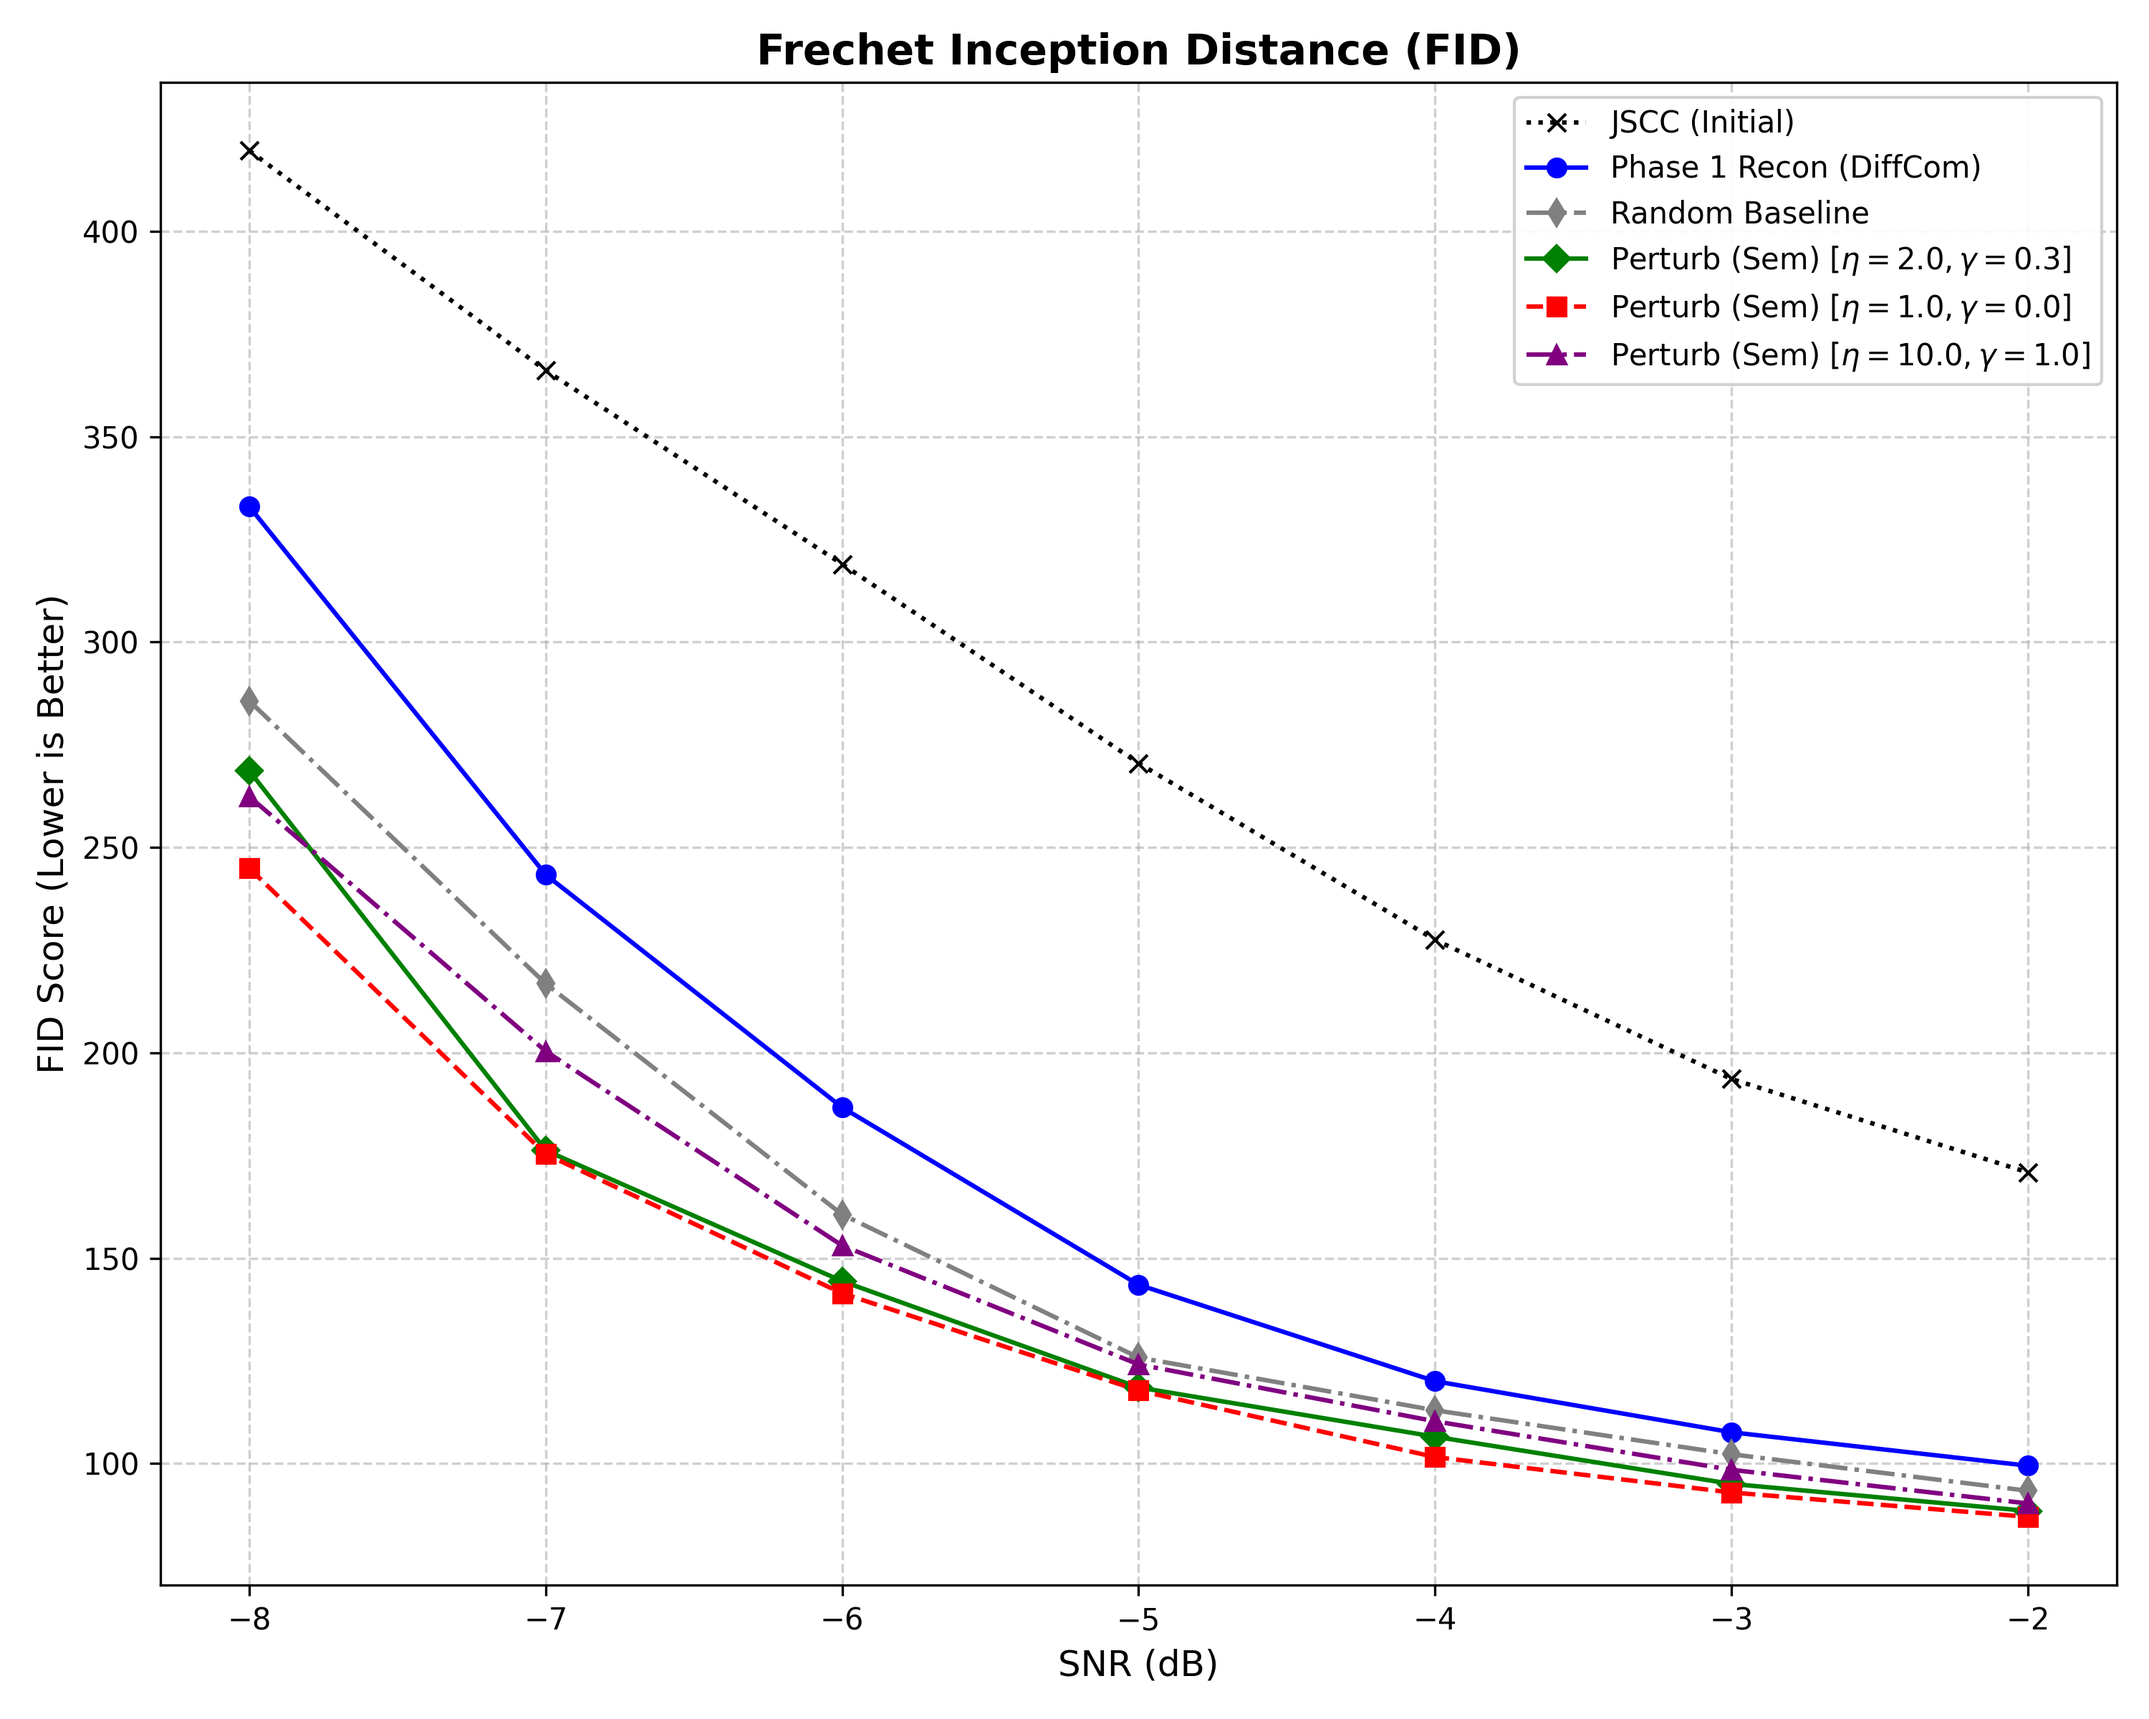
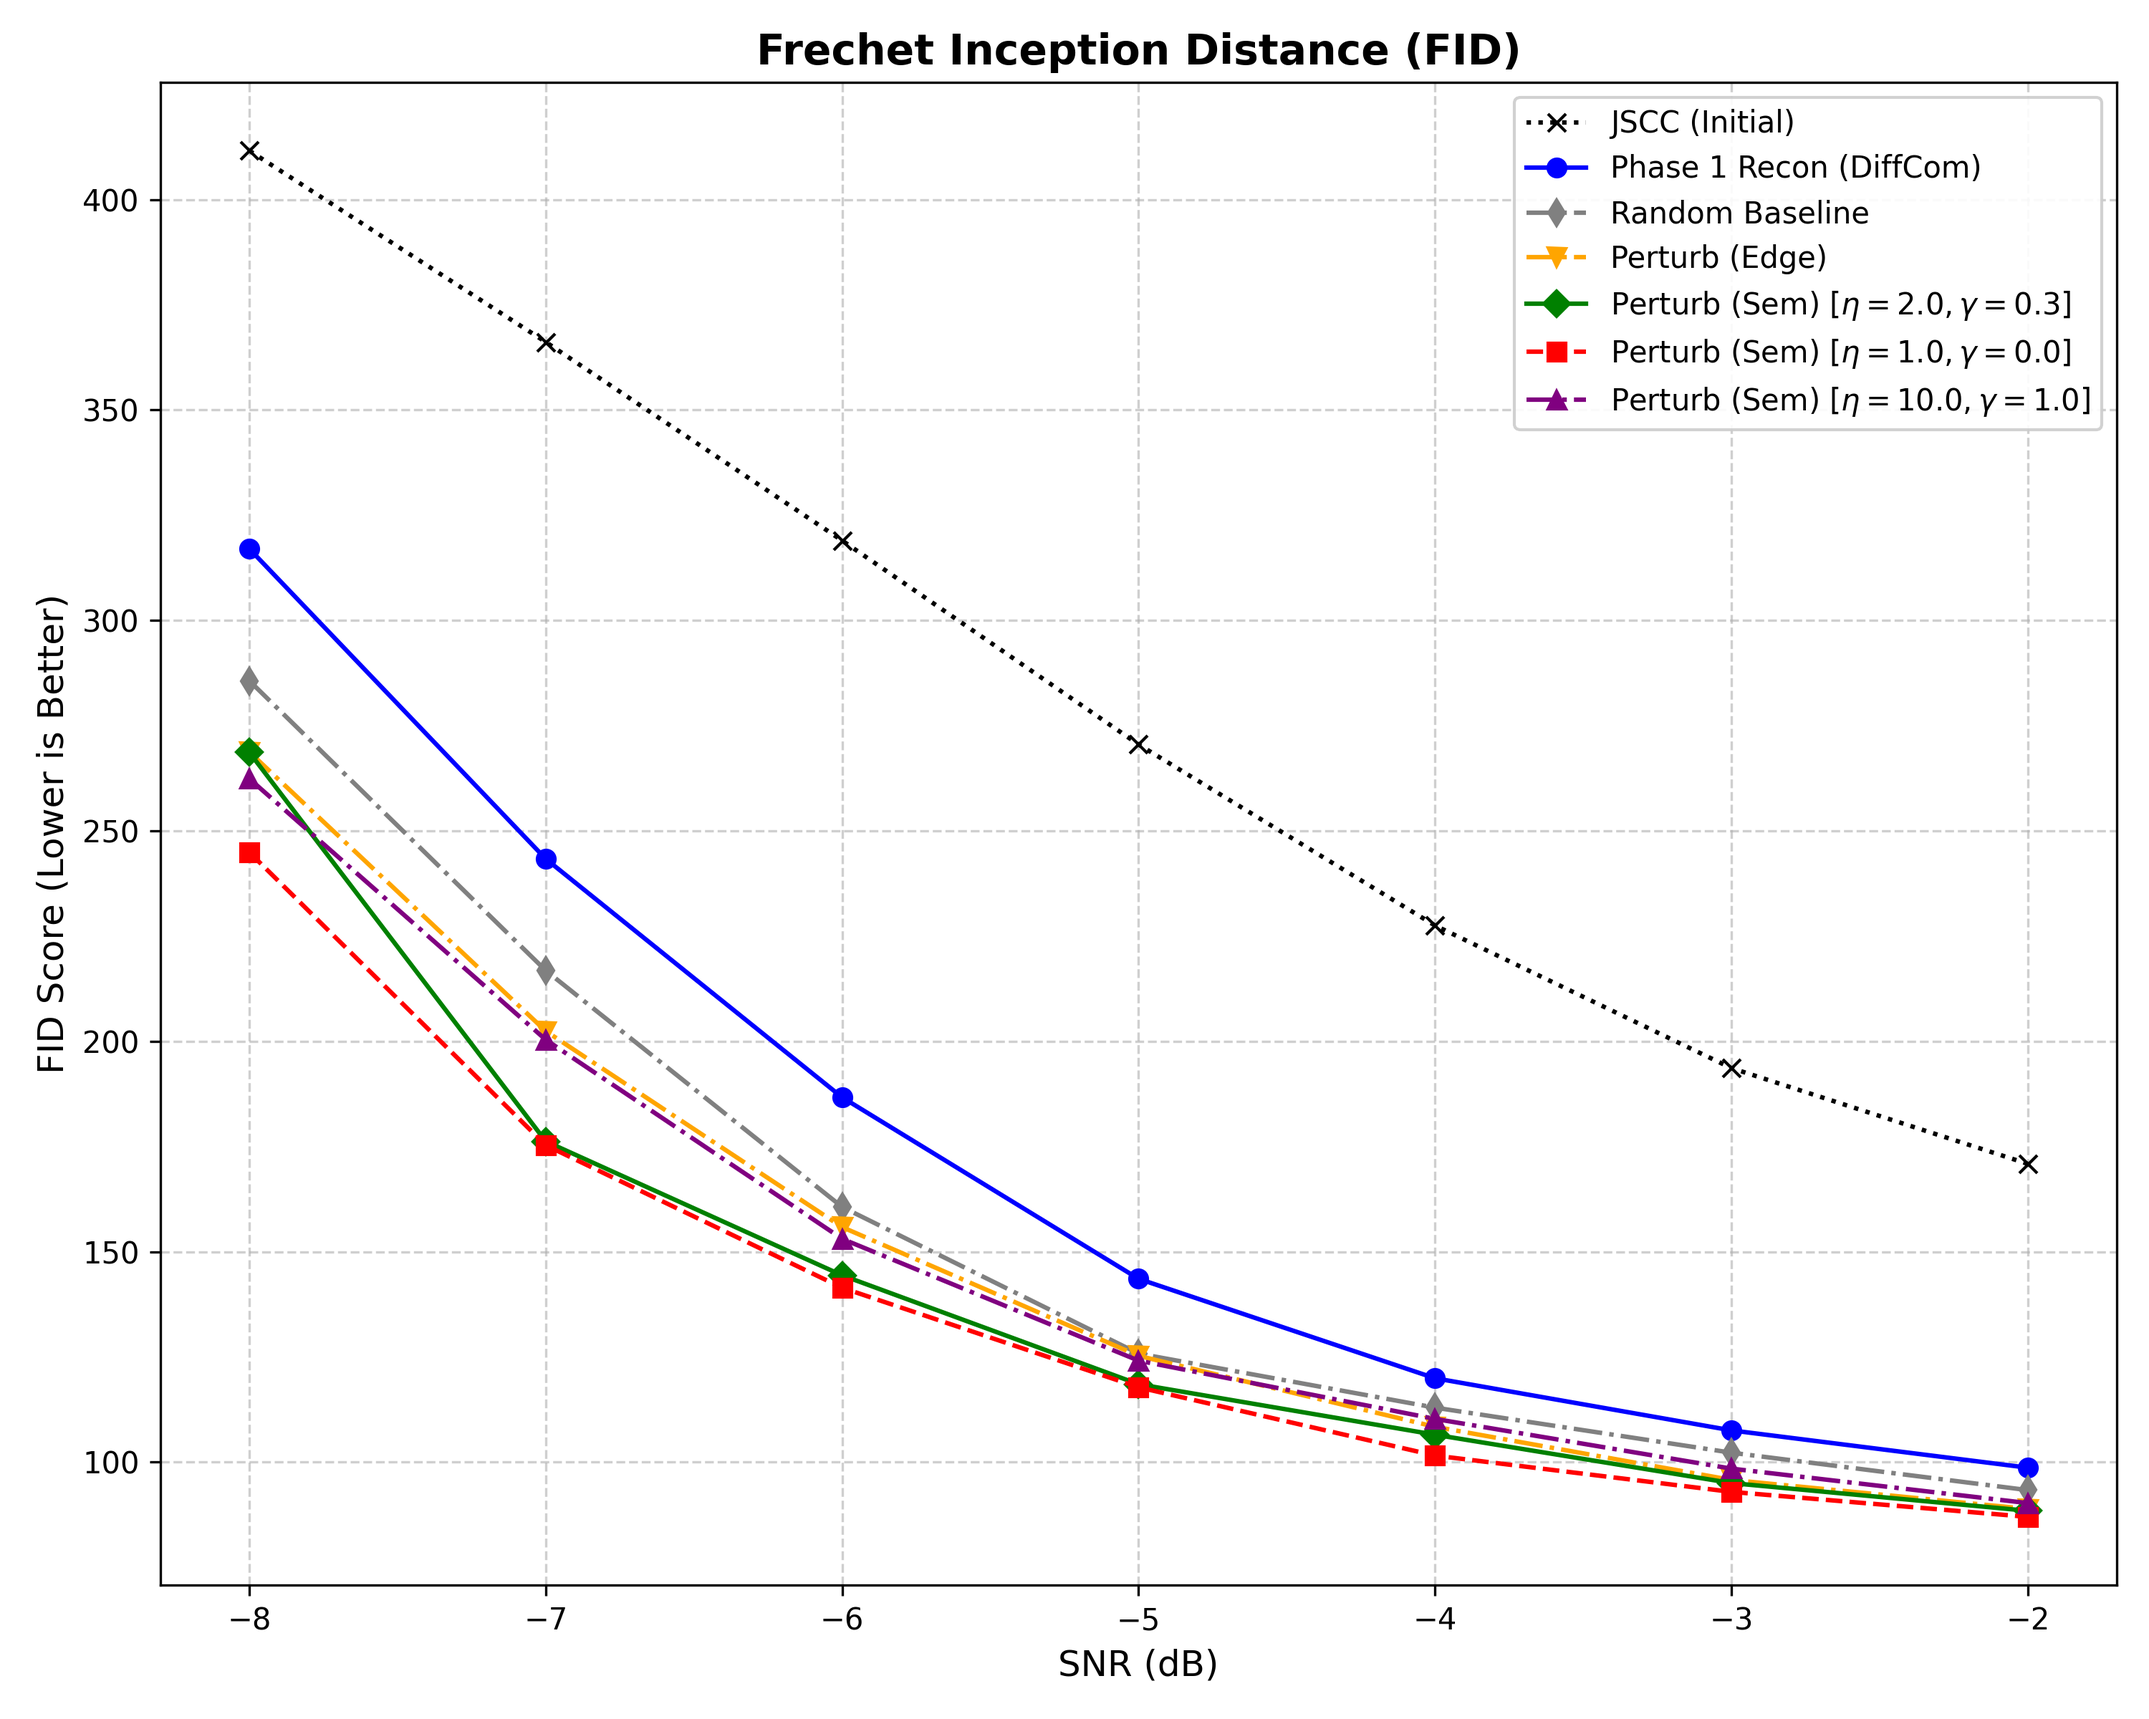
final save

diff --git a/calc_id_loss.py b/calc_id_loss.py
@@ -29,25 +29,34 @@ def preprocess_for_facenet(img_tensor):
     
     return img_normalized
 
-def calculate_id_loss_for_snr(target_path, id_model, device):
+def calculate_id_loss_for_snr(target_path, id_model, device, mode):
     """
     指定されたパス内の画像からID Loss (1 - CosineSimilarity) を計算し保存する。
-    UncとSemの手法間の差分トップ3もログに出力する。
+    UncとSemの手法間の差分トップ3もログに出力する（ファイルが存在する場合のみ）。
     """
     if not os.path.exists(target_path):
         print(f"[Skip] Path not found: {target_path}")
         return
 
-    # 手法定義
-    methods = [
-        '1_JSCC_Init',
-        '2_Phase1_Recon',
-        '3_P2_perturbation_raw_Unc',
-        '3_P2_perturbation_raw_Sem',
-        # '3_P2_temporal_raw_Unc',
-        # '3_P2_temporal_raw_Sem',
-        '3_P2_Random'
-    ]
+    # モードに応じた手法定義
+    if mode.lower() == 'edge':
+        # Edgeモード: ファイル名は ...raw_Edge.png を想定
+        mode_cap = mode.capitalize()
+        methods = [
+            '1_JSCC_Init',
+            '2_Phase1_Recon',
+            f'3_P2_perturbation_raw_{mode_cap}', # 例: 3_P2_perturbation_raw_Edge
+            '3_P2_Random'
+        ]
+    else:
+        # Semantic (Default) モード: UncとSemが存在する想定
+        methods = [
+            '1_JSCC_Init',
+            '2_Phase1_Recon',
+            '3_P2_perturbation_raw_Unc',
+            '3_P2_perturbation_raw_Sem',
+            '3_P2_Random'
+        ]
 
     # 結果コンテナ
     id_scores = {m: [] for m in methods}     # Cosine Similarity
@@ -55,8 +64,7 @@ def calculate_id_loss_for_snr(target_path, id_model, device):
 
     # 差分トラッキング用 [ (batch_id, diff, loss_unc, loss_sem), ... ]
     diff_records_perturbation = []
-    diff_records_temporal = []
-
+    
     visuals_dir = os.path.join(target_path, 'visuals')
     if not os.path.exists(visuals_dir):
         print(f"[Skip] No visuals directory in {target_path}")
@@ -73,7 +81,7 @@ def calculate_id_loss_for_snr(target_path, id_model, device):
 
     to_tensor = transforms.ToTensor()
 
-    print(f"Processing {len(batch_dirs)} samples in {os.path.basename(target_path)}...")
+    print(f"Processing {len(batch_dirs)} samples in {os.path.basename(target_path)} (Mode: {mode})")
 
     for b_dir in tqdm(batch_dirs, leave=False):
         path = os.path.join(visuals_dir, b_dir)
@@ -121,27 +129,21 @@ def calculate_id_loss_for_snr(target_path, id_model, device):
                     current_batch_losses[m] = None
 
             # --- Calculate Differences for Top 3 Tracking ---
-            
-            # 1. Perturbation: Unc vs Sem
+            # UncとSemの両方が存在する場合のみ計算 (Edgeモード等はスキップされる)
             unc_key_p = '3_P2_perturbation_raw_Unc'
             sem_key_p = '3_P2_perturbation_raw_Sem'
-            if current_batch_losses.get(unc_key_p) is not None and current_batch_losses.get(sem_key_p) is not None:
+            
+            if (unc_key_p in current_batch_losses and 
+                sem_key_p in current_batch_losses and
+                current_batch_losses[unc_key_p] is not None and 
+                current_batch_losses[sem_key_p] is not None):
+                
                 u_val = current_batch_losses[unc_key_p]
                 s_val = current_batch_losses[sem_key_p]
                 diff = abs(u_val - s_val)
                 diff_records_perturbation.append( (b_dir, diff, u_val, s_val) )
 
-            # 2. Temporal: Unc vs Sem (もしmethodsに含まれていれば)
-            unc_key_t = '3_P2_temporal_raw_Unc'
-            sem_key_t = '3_P2_temporal_raw_Sem'
-            if current_batch_losses.get(unc_key_t) is not None and current_batch_losses.get(sem_key_t) is not None:
-                u_val = current_batch_losses[unc_key_t]
-                s_val = current_batch_losses[sem_key_t]
-                diff = abs(u_val - s_val)
-                diff_records_temporal.append( (b_dir, diff, u_val, s_val) )
-
         except Exception as e:
-            # print(f"Error processing batch {b_dir}: {e}")
             pass
 
     # --- [Summarize & Save] ---
@@ -181,8 +183,8 @@ def calculate_id_loss_for_snr(target_path, id_model, device):
             b_id, diff, u_l, s_l = r
             print(f"{b_id:<10} | {diff:.4f}     | {u_l:.4f}     | {s_l:.4f}")
 
+    # EdgeモードではUnc/Semの差分リストは空になるため表示されません
     print_top3(diff_records_perturbation, "Perturbation (Raw)")
-    # print_top3(diff_records_temporal, "Temporal (Raw)")
 
     # Save results to JSON
     output_json = os.path.join(target_path, "post_process_id_loss.json")
@@ -195,14 +197,17 @@ if __name__ == "__main__":
     # 設定エリア
     # ==========================================
     DATASET = "ffhq_demo"
-    MODE = "semantic"
-    #MODE = "both"
+    
+    # ★ここを edge に変更
+    MODE = "edge"
+    # MODE = "semantic"
+    
     # ★ 複数のSNRをリストで指定
     SNR_LABELS = ["-8","-7", "-6", "-5" ,"-4", "-3","-2"]
     
     RATE = 0.1
-    EXP_FACTOR = 10.0
-    GAMMA = 1.0
+    EXP_FACTOR = 1.0 # Edge実験に合わせてパラメータも調整してください（例: 1.0）
+    GAMMA = 0.0      # Edge実験に合わせてパラメータも調整してください（例: 0.0）
     
     ROOT_DIR = "results_retrans_comparison"
     METHOD_PATH = "diffcom/djscc_2"
@@ -230,5 +235,5 @@ if __name__ == "__main__":
         
         target_path = os.path.join(ROOT_DIR, DATASET, METHOD_PATH, snr_folder, exp_folder)
         
-        # モデルを引数として渡して計算
-        calculate_id_loss_for_snr(target_path, id_model, device)
+        # モデルとMODEを引数として渡して計算
+        calculate_id_loss_for_snr(target_path, id_model, device, MODE)

diff --git a/calc_fid.py b/calc_fid.py
@@ -6,24 +6,31 @@ from PIL import Image
 from tqdm import tqdm
 import json
 
-def calculate_fids_from_disk(base_path, device):
+def calculate_fids_from_disk(base_path, device, mode):
     """
     保存済みの画像から手法ごとのFIDを計算する
+    mode: 設定されているモード (例: 'edge', 'semantic' 等)
     """
     if not os.path.exists(base_path):
         print(f"[Skip] Path not found: {base_path}")
         return
 
+    # モード名の先頭を大文字にする (例: edge -> Edge)
+    # ファイル名が '3_P2_perturbation_raw_Edge.png' となっているため
+    mode_cap = mode.capitalize()
+
     # 計算対象の手法（ファイル名の接頭辞）を定義
+    # MODEに合わせて動的にファイル名を指定します
     methods = [
         '1_JSCC_Init',
         '2_Phase1_Recon',
-        '3_P2_perturbation_raw_Unc',
-        '3_P2_perturbation_raw_Sem',
-        # '3_P2_temporal_raw_Unc',
-        # '3_P2_temporal_raw_Sem',
+        f'3_P2_perturbation_raw_{mode_cap}', # ここを動的に変更
         '3_P2_Random'
     ]
+    
+    # 必要であれば古い定義（Unc/Sem）も残すか、完全に置き換えるか選択できますが、
+    # エラーログを見る限りEdgeモードではEdgeファイルしか生成されていないようなので
+    # 上記のようにリストを構成しています。
 
     # FIDメトリクスの初期化 (手法ごと)
     # 毎回リセットして初期化
@@ -51,7 +58,7 @@ def calculate_fids_from_disk(base_path, device):
         transforms.ToTensor(), # [0, 255] -> [0.0, 1.0]
     ])
 
-    print(f"Processing {len(batch_dirs)} samples from: {os.path.basename(base_path)}")
+    print(f"Processing {len(batch_dirs)} samples from: {os.path.basename(base_path)} (Mode: {mode_cap})")
 
     for b_dir in tqdm(batch_dirs, leave=False):
         path = os.path.join(visuals_dir, b_dir)
@@ -109,7 +116,10 @@ if __name__ == "__main__":
     # 1. データセット ("imagenet" or "ffhq_demo")
     DATASET = "ffhq_demo" 
     #DATASET = "imagenet"
-    MODE = "semantic"
+    
+    # MODE設定 (ここが "edge" の場合、ファイル名は ...raw_Edge.png となる想定)
+    MODE = "edge"
+    
     # 2. SNR リスト
     # ここに計算したいSNRをすべて列挙します
     SNR_LABELS = ["-8","-7", "-6", "-5" ,"-4", "-3","-2"]
@@ -118,8 +128,8 @@ if __name__ == "__main__":
     RATE = 0.1
 
     # 4. HPRSパラメータ
-    EXP_FACTOR = 10.0
-    GAMMA = 1.0
+    EXP_FACTOR = 1.0
+    GAMMA = 0.0
 
     # 5. その他の固定パラメータ
     ROOT_DIR = "results_retrans_comparison"
@@ -147,4 +157,5 @@ if __name__ == "__main__":
             exp_folder
         )
         
-        calculate_fids_from_disk(target_results_path, device)
+        # MODEを引数として渡す
+        calculate_fids_from_disk(target_results_path, device, MODE)

diff --git a/plot_id_loss.py b/plot_id_loss.py
@@ -62,7 +62,8 @@ COMPARISON_CONFIGS = [
 BASELINE_KEYS = [
     "1_JSCC_Init",
     "2_Phase1_Recon",
-    "3_P2_Random"
+    "3_P2_Random",
+    "3_P2_perturbation_raw_Edge" # ★ここに追加しました
 ]
 
 # (B) 比較対象 (パラメータ設定ごとに線を引く手法)
@@ -79,6 +80,7 @@ METHOD_LABELS = {
     
     "3_P2_perturbation_raw_Unc": "Perturb (Unc)",
     "3_P2_perturbation_raw_Sem": "Perturb (Sem)",
+    "3_P2_perturbation_raw_Edge": "Perturb (Edge)", # ★ラベルを追加
 }
 
 # 8. スタイル設定 (ベースライン用のデフォルト)
@@ -86,6 +88,9 @@ STYLE_CONFIG = {
     "1_JSCC_Init":               {"color": "black", "linestyle": ":",  "marker": "x"},
     "2_Phase1_Recon":            {"color": "blue",  "linestyle": "-",  "marker": "o"},
     "3_P2_Random":               {"color": "gray",  "linestyle": "-.", "marker": "d"},
+    
+    # ★Edge用のスタイルを追加 (例: オレンジ色, 逆三角)
+    "3_P2_perturbation_raw_Edge": {"color": "orange", "linestyle": "-.", "marker": "v"},
     
     # ここでの設定は COMPARISON_CONFIGS に指定がない場合のフォールバックとして使われます
     "3_P2_perturbation_raw_Unc": {"color": "red",   "marker": "s"},

diff --git a/plot_fid.py b/plot_fid.py
@@ -63,7 +63,8 @@ COMPARISON_CONFIGS = [
 BASELINE_KEYS = [
     "1_JSCC_Init",
     "2_Phase1_Recon",
-    "3_P2_Random"
+    "3_P2_Random",
+    "3_P2_perturbation_raw_Edge" # ★ここに追加しました
 ]
 
 # (B) 比較対象 (パラメータ設定ごとに線を引く手法)
@@ -80,6 +81,7 @@ METHOD_LABELS = {
     
     "3_P2_perturbation_raw_Unc": "Perturb (Unc)",
     "3_P2_perturbation_raw_Sem": "Perturb (Sem)",
+    "3_P2_perturbation_raw_Edge": "Perturb (Edge)", # ★ラベルを追加
 }
 
 # 8. スタイル設定 (ベースライン用のデフォルト)
@@ -87,6 +89,9 @@ STYLE_CONFIG = {
     "1_JSCC_Init":               {"color": "black", "linestyle": ":",  "marker": "x"},
     "2_Phase1_Recon":            {"color": "blue",  "linestyle": "-",  "marker": "o"},
     "3_P2_Random":               {"color": "gray",  "linestyle": "-.", "marker": "d"},
+    
+    # ★Edge用のスタイルを追加 (例: オレンジ色, 逆三角)
+    "3_P2_perturbation_raw_Edge": {"color": "orange", "linestyle": "-.", "marker": "v"},
 
     # ここでの設定は COMPARISON_CONFIGS に指定がない場合のフォールバックとして使われます
     "3_P2_perturbation_raw_Unc": {"color": "red",   "marker": "s"},
